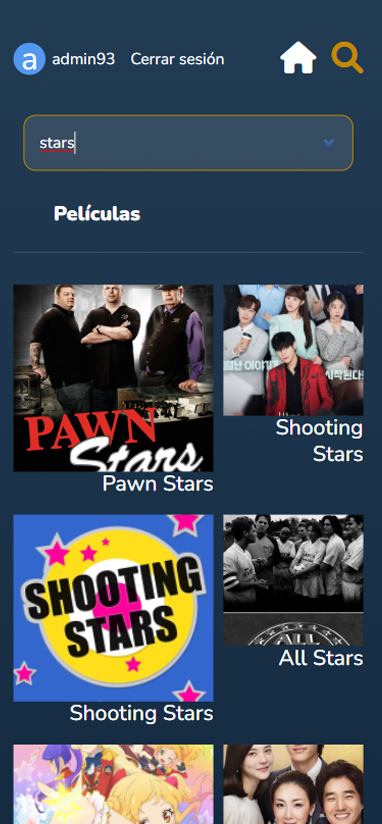
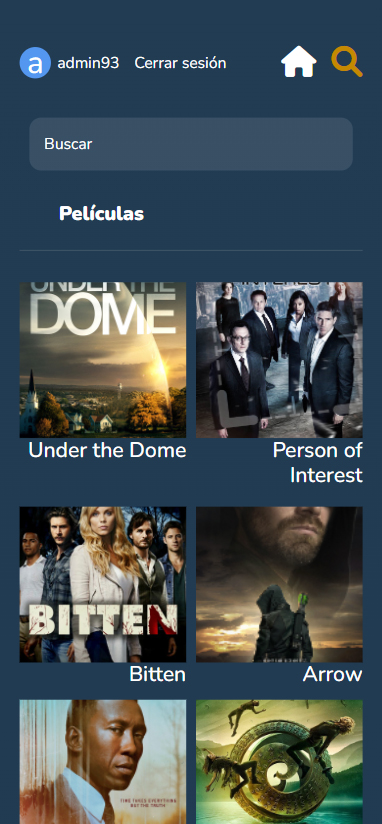
arreglo tamaño de imagenes

diff --git a/src/componentes/Proyectos.jsx b/src/componentes/Proyectos.jsx
@@ -12,16 +12,18 @@ const Proyecto = styled.div`
 `;
 const TituloProyecto = styled.h3`
   font-weight: bold;
+  font-size: 1.5em;
   margin-bottom: 0;
   color: var(--main-clr);
 `;
 
 const DescProyecto = styled.p`
-  margin-top: 0;
+  margin-top: 0.2em;
+  margin-bottom:0.4em;
 `;
 
 const ImgProyecto = styled.img`
-  width: 80%;
+  width: 100%;
 `;
 
 const Proyectos = () => {
